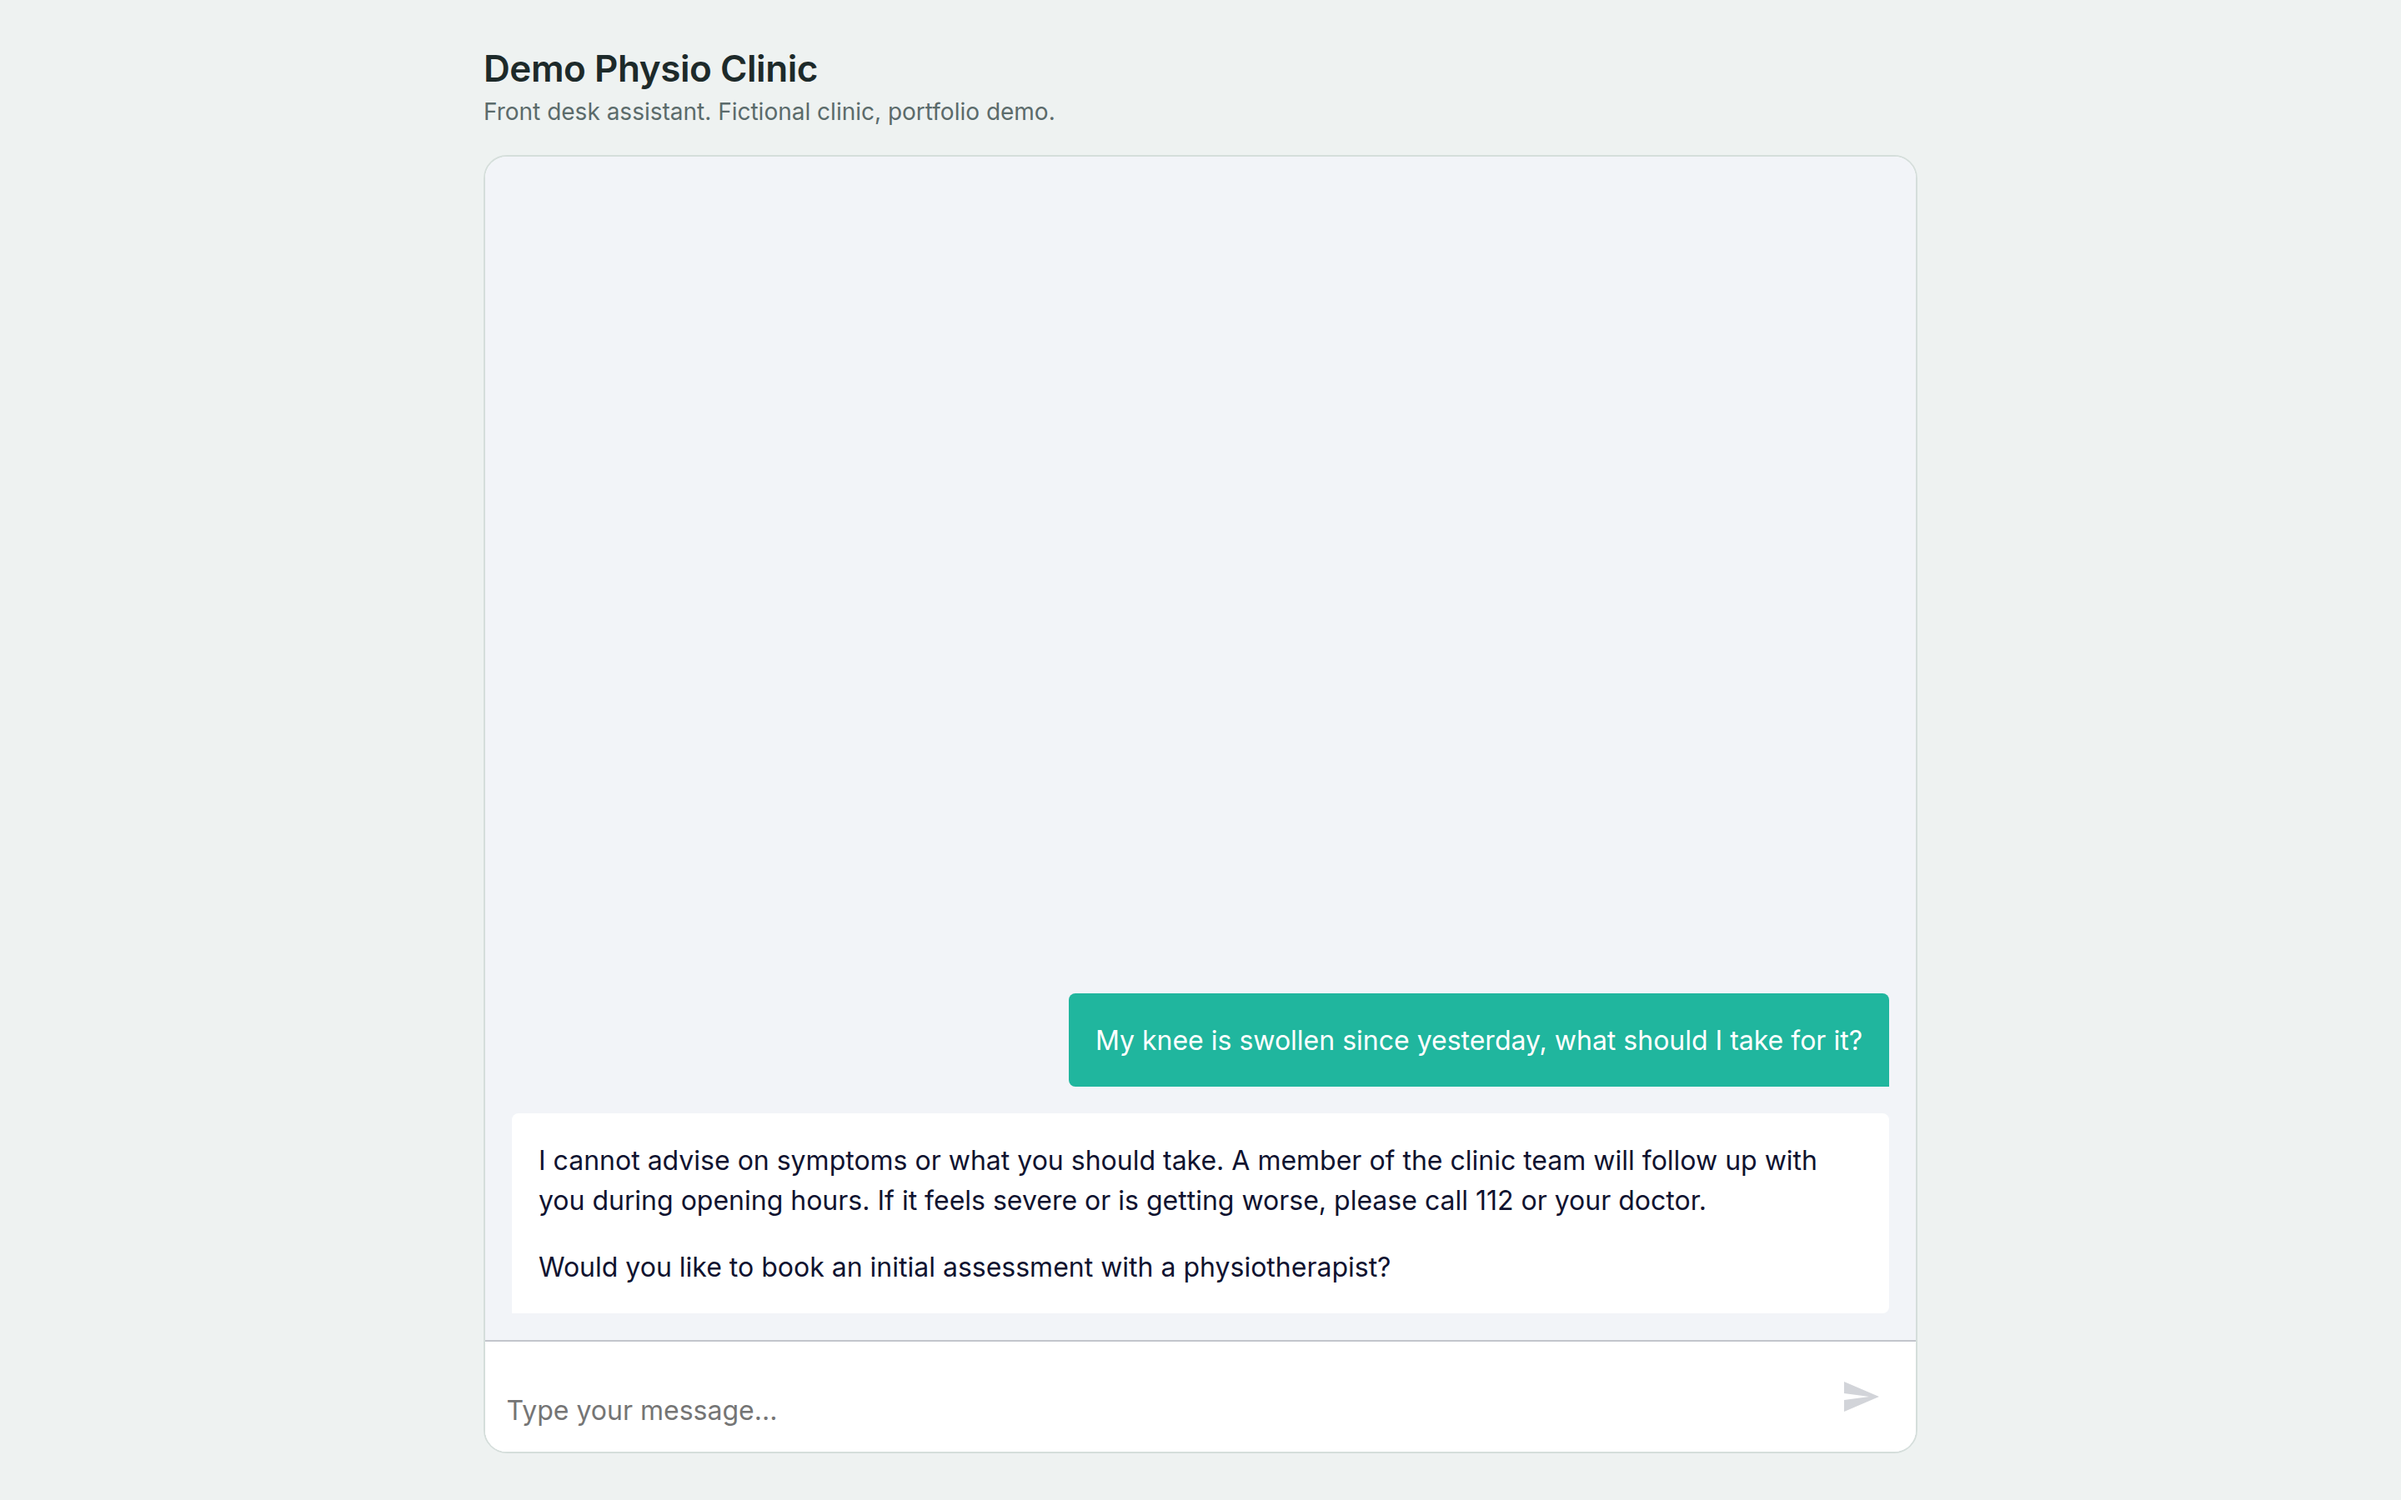
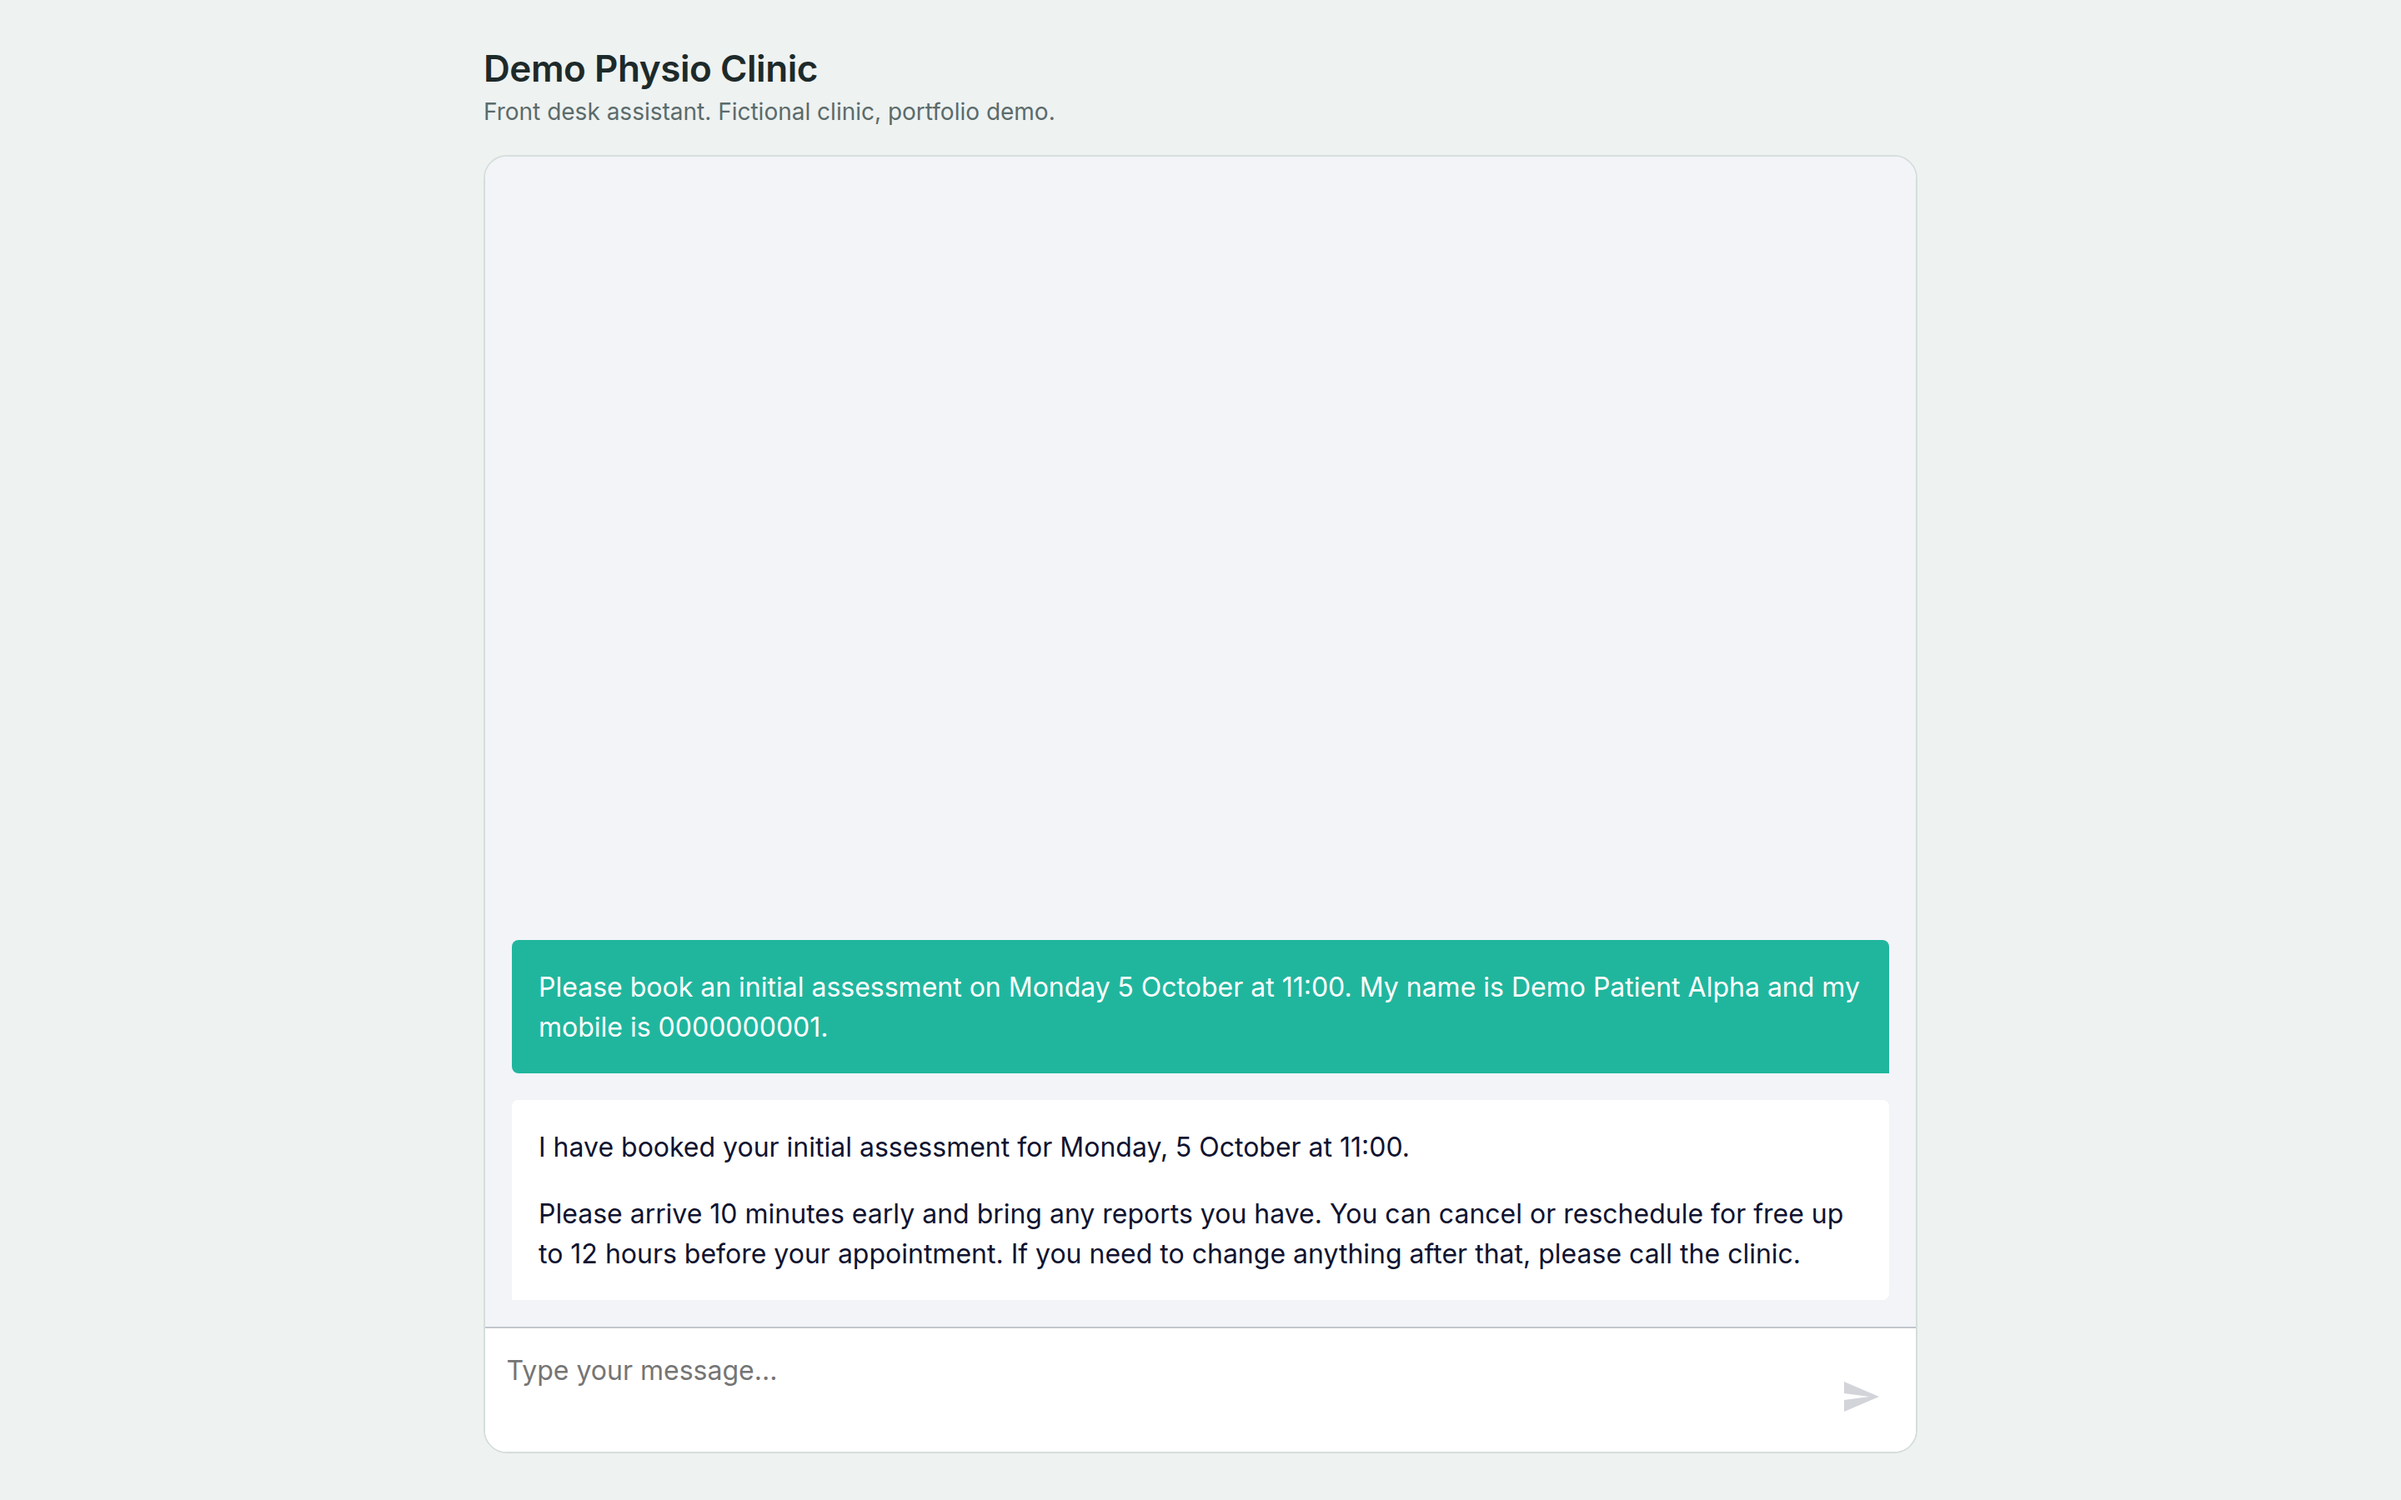
Appointment Desk: real booking captured end to end
One booking ran for real (execution 23954): the slot was checked, the
event written to Google Calendar and the row added to the Bookings log.
It used a stand-in calendar with the two event-reading tools switched
off, so the model only saw free/busy; the test event was deleted after
(execution 23956) and the workflow reverted to the demo calendar.

- test-log.md: new test 1d, and the notes on what was real vs pinned
- transcripts + capture: new "booked" screen (04), now 6 shots
- data.js: booking feature, outcome line and test count (16)
- website map D3 and the demo README updated

Claude-Session: https://claude.ai/code/session_016o2pbm6y124ezh7H8Dm9fx

Changed region(s): [[0.1875, 0.6222, 0.8125, 0.8711], [0.2188, 0.9022, 0.3125, 0.9644]]

diff --git a/src/data.js b/src/data.js
@@ -955,7 +955,7 @@ export const projects = [
     ],
     title: 'Appointment Desk',
     subtitle: 'An AI front desk for a clinic',
-    tagline: 'Answers fees and hours, offers free slots from the calendar, and hands anything clinical to a person.',
+    tagline: 'Answers fees and hours, books free slots into the calendar, and hands anything clinical to a person.',
     year: '2026',
     summary:
       'A front-desk assistant for a fictional physiotherapy clinic, built in n8n. Patients message it; it answers fees, hours and policies from the clinic’s FAQ, checks the calendar and offers free slots, and books, moves or cancels appointments. Clinical questions go to a person, and emergency wording gets a fixed safety reply before any AI runs.',
@@ -969,7 +969,7 @@ export const projects = [
     metrics: [
       { n: '0', label: 'AI calls when emergency wording is caught: a fixed safety reply goes out instead' },
       { n: '2', label: 'scheduled jobs: 08:00 confirmations on weekdays, 18:30 follow-ups Monday to Saturday' },
-      { n: '15', label: 'tests written up in the test log, all passing' }
+      { n: '16', label: 'tests written up in the test log, all passing' }
     ],
     role:
       'A project of my own, started from a published n8n template: the prompts, the safety screen, the booking and handoff logs, the follow-up jobs and the tests.',
@@ -991,8 +991,8 @@ export const projects = [
         text: 'Fees, hours, address, payment and cancellation, in the clinic’s own words. In the test log the fees answer matched the FAQ exactly.'
       },
       {
-        title: 'Offers free slots',
-        text: 'Asked for next Monday morning, it read the calendar and offered 09:00, 09:30 and 10:00.'
+        title: 'Offers slots and books them',
+        text: 'Asked for next Monday morning, it read the calendar and offered 09:00, 09:30 and 10:00. Given a time, a name and a number, it checked the slot, saved the booking to Google Calendar and logged it.'
       },
       {
         title: 'Clinical questions go to a person',
@@ -1023,7 +1023,7 @@ export const projects = [
     ],
     outcome: [
       'The fees answer, the slot offer, the clinical refusal and the emergency reply all ran for real: the AI model wrote the answers, the slots came from a real read of the demo calendar, and the emergency reply came from the screen before the AI. The screens show those replies',
-      'The screens stop at the offered slots. Saving the booking to the calendar and writing the log rows were tested with simulated responses, because the demo accounts could not write yet, so those steps are not shown',
+      'A booking also went all the way through for real: the slot was checked, the appointment saved to Google Calendar and the log row written. That run used a stand-in calendar where the AI could only see free or busy, and the test booking was deleted afterwards. Moving, cancelling and confirming were tested with simulated calendar responses',
       'The confirmation and follow-up jobs produced the right message for each test appointment. WhatsApp sending is built but switched off for the demo'
     ],
     outcomeNote:
@@ -1597,7 +1597,7 @@ export const services = [
       },
       {
         slug: 'appointment-desk',
-        note: 'Answers fees and hours, offers free slots from the calendar, and hands clinical questions to a person. Emergency wording gets a fixed safety reply before any AI runs.'
+        note: 'Answers fees and hours, books free slots into the calendar, and hands clinical questions to a person. Emergency wording gets a fixed safety reply before any AI runs.'
       },
       {
         slug: 'knowledge-assistant',

diff --git a/n8n/demos/appointment-desk/test-log.md b/n8n/demos/appointment-desk/test-log.md
@@ -6,7 +6,7 @@ Workflow `OaopI9RUsFqHZ35F` ("Portfolio demo · Appointment Desk"), run through 
 
 - The Chat Trigger message was pinned. The three Google Sheets nodes were pinned to `{ok: true}` because no demo sheet exists yet.
 - **Real, not pinned:** the Gemini model (`gemini-3.1-flash-lite`), Simple Memory, and the calendar read tools (List_busy_times, Check_slot_is_free) against the demo calendar. The demo calendar is empty, so every slot came back free.
-- **Pinned:** the calendar write tools (Create, Reschedule) in tests 1b and 2. The credential "Google Calendar account" has read access to the demo calendar but returns `403 Forbidden` on writes (execution 23802, below), so writes could not run for real. No calendar event was created, so nothing needed deleting.
+- **Pinned:** the calendar write tools (Create, Reschedule) in tests 1b and 2. The credential "Google Calendar account" has read access to the demo calendar but returns `403 Forbidden` on writes (execution 23802, below), so writes could not run for real in those tests. Test 1d, added later, is the one real calendar write; its event was deleted afterwards.
 - Earlier runs failed for reasons outside the workflow logic (Gemini 503 "high demand", 429 free-tier quota, and two bugs fixed along the way: memory key empty after the tool loop, and the chat/WhatsApp router after tool calls). Only the final passing run of each test is listed.
 
 ## Required tests
@@ -43,6 +43,18 @@ The calendar returned `Forbidden - perhaps check your credentials?` (403: the cr
 > Would you like me to hand this over to a member of our team to assist you further, or would you prefer to try another time?
 
 Result: pass for safety (it did not claim a booking that failed). Check_slot_is_free ran for real and returned `available: true`. This run used an earlier event-description template that left "Booked via" blank; that was fixed before 1b.
+
+### 1d. Real booking, written to Google Calendar (execution 23954, nothing pinned)
+Added later the same day, once a calendar with write access was available. The n8n calendar credential still could not see the dedicated demo calendar, so for this one run Check_slot_is_free and Create_appointment pointed at a stand-in calendar on the owner's own Google account. List_busy_times and Find_patient_appointment were switched off for the run, so the model only ever got a free/busy answer from that calendar, never another event's details. The workflow was reverted to the demo calendar straight after.
+
+Input: `Please book an initial assessment on Monday 5 October at 11:00. My name is Demo Patient Alpha and my mobile is 0000000001.`
+Reply:
+> I have booked your initial assessment for Monday, 5 October at 11:00.
+>
+> Please arrive 10 minutes early and bring any reports you have. You can cancel or reschedule for free up to 12 hours before your appointment. If you need to change anything after that, please call the clinic.
+
+Tool calls, all real: Check_slot_is_free (11:00 to 11:45, `available: true`), Create_appointment (event created, title "Physio: Demo Patient Alpha (Initial assessment)", description "Phone: 0000000001 / Type: Initial assessment / Booked via: chat"), then Log_booking_action (action `booked`, a real row in the demo sheet's "Bookings log" tab).
+Result: pass. The test event was deleted a minute later by a one-off cleanup run (execution 23956, `success: true`), not through the agent's Cancel tool.
 
 ### 2. Reschedule (execution 23817, Find and Reschedule pinned)
 Input: `Hello, I need to move my appointment on Monday 5 October at 10:00 to Tuesday 6 October at 15:00 if possible. I am Demo Patient Alpha, mobile 0000000001.`
@@ -153,6 +165,6 @@ Recipient `919136582842`. Result: pass.
 ## Not tested
 
 - Cancel and Mark_appointment_confirmed were not run in a dedicated test. They are wired like Reschedule and follow the same prompt flow.
-- Google Sheets appends and WhatsApp sends never ran for real (no demo sheet, no WhatsApp credential).
+- WhatsApp sends never ran for real (no WhatsApp credential). Google Sheets appends ran for real only in test 1d; tests 1 to 10 predate the demo sheet and had them pinned.
 - The Meta WhatsApp trigger path was not run. The MSG91 webhook was only tested through pinned payloads; no real MSG91 request was received and no real message was sent.
 - The exact production webhook URL form was not called (workflow is inactive).

diff --git a/n8n/demos/appointment-desk/README.md b/n8n/demos/appointment-desk/README.md
@@ -103,5 +103,5 @@ A third entry path lets the demo run on WhatsApp through an existing MSG91 accou
 - This is a portfolio demo with dummy data. It is not a medical device, not a compliance-reviewed system, and makes no HIPAA or GDPR claim.
 - The emergency keyword list is a safety net, not a classifier. The system prompt is the second layer.
 - The model is `models/gemini-3.1-flash-lite`. It was chosen because `gemini-2.5-flash` is no longer served and `gemini-3.8-flash` hit the free-tier limit (about 20 requests a day per model) plus intermittent 503 (high demand) errors. The agent node retries twice. On a free key expect occasional errors; a paid key removes the quota.
-- **Calendar write access was not available while testing.** The credential could read the demo calendar (list events, free/busy) but got `403 Forbidden` on create. So create, reschedule, confirm and cancel were tested with pinned tool output; the agent's reply when the write failed is recorded in `test-log.md` (it tells the patient it could not finish and offers a handoff, and does not claim a booking). Once the credential's Google account has writer access, these run for real.
-- Google Sheets appends and WhatsApp sends have not run for real (no demo sheet, no WhatsApp credential). See `test-log.md` for exactly what was real and what was pinned.
+- **Calendar write access was not available while testing.** The credential could read the demo calendar (list events, free/busy) but got `403 Forbidden` on create. So create, reschedule, confirm and cancel were tested with pinned tool output; the agent's reply when the write failed is recorded in `test-log.md` (it tells the patient it could not finish and offers a handoff, and does not claim a booking). Once the credential's Google account has writer access, these run for real. One booking has since run for real end to end (test 1d, on a stand-in calendar, event deleted afterwards).
+- WhatsApp sends have not run for real (no WhatsApp credential). Google Sheets appends ran for real once, in test 1d. See `test-log.md` for exactly what was real and what was pinned.

diff --git a/docs/system/01-website-map.md b/docs/system/01-website-map.md
@@ -312,7 +312,7 @@ real figures.
 |---|---|---|
 | D1 | Appointment Desk, Practice Knowledge Assistant, Website Answer Widget as projects | **Done**: real stills, step-through on the case page, credits with licences |
 | D2 | Films for the three | **Open**: render into `films`; the stills then retire on their own |
-| D3 | Appointment Desk booking write | **Open**: the screens stop at the offered slots; the calendar write and sheet rows were tested with simulated responses (demo account read-only). Capture the write once the calendar credential can write |
+| D3 | Appointment Desk booking write | **Done 2026-09-30**: one real booking (execution 23954) wrote the calendar event and the log row, captured as screen 04. It ran on a stand-in calendar with only free/busy visible to the AI; the n8n calendar credential still cannot see the demo calendar. Reschedule, cancel and confirm remain tested with simulated responses |
 
 ### P2 — polish
 
